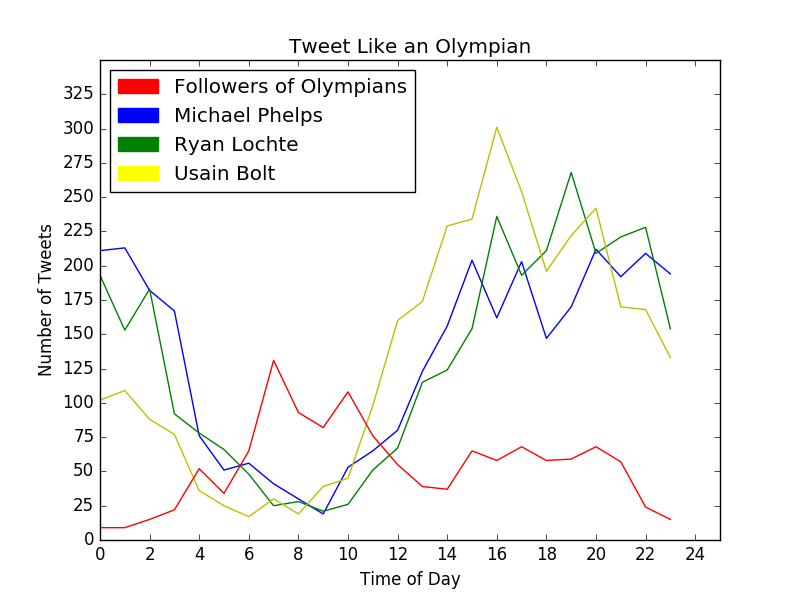
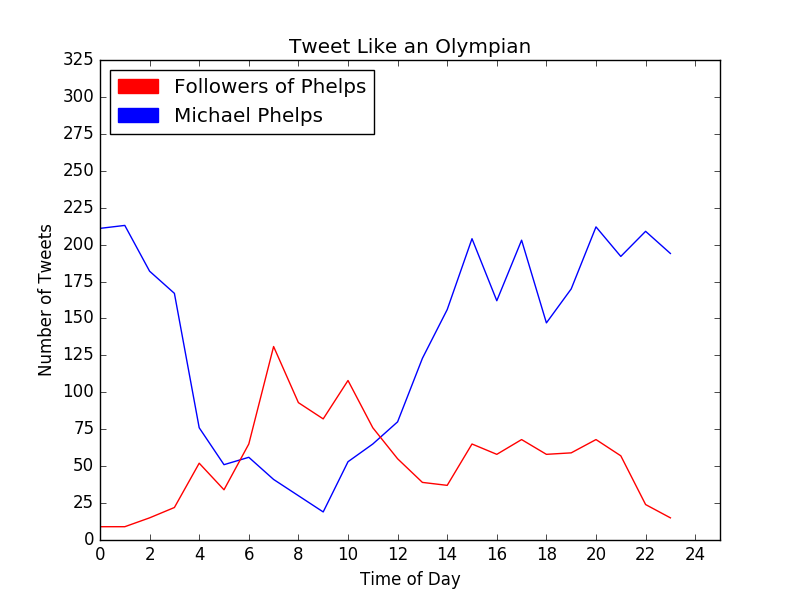
fixed README, eliminated bolt/locthe from plot

diff --git a/readingcsv.py b/readingcsv.py
@@ -51,17 +51,15 @@ bolt = getFreq('usainbolt_tweets.csv')
 random_ppl = getFreq('random_tweets.csv')
 print(random_ppl)
 
-mlt.plot(xaxis, phelps, 'b-', xaxis,lochte, 'g-', xaxis, bolt, 'y-', xaxis, random_ppl, 'r-')
+mlt.plot(xaxis, phelps, 'b-', xaxis, random_ppl, 'r-')
 mlt.xticks(np.arange(0, 25, 2.0))
 mlt.yticks(np.arange(0, 350, 25.0))
 mlt.xlabel("Time of Day")
 mlt.ylabel("Number of Tweets")
 mlt.title("Tweet Like an Olympian")
 
-red_patch = mpatches.Patch(color='red', label='Followers of Olympians')
+red_patch = mpatches.Patch(color='red', label='Followers of Phelps')
 blue_patch = mpatches.Patch(color='blue', label='Michael Phelps')
-green_patch = mpatches.Patch(color='green', label='Ryan Lochte')
-yellow_patch = mpatches.Patch(color='yellow', label='Usain Bolt')
-mlt.legend(handles=[red_patch, blue_patch, green_patch, yellow_patch], loc=2)
+mlt.legend(handles=[red_patch, blue_patch], loc=2)
 
 mlt.show()

diff --git a/README.md b/README.md
@@ -1,12 +1,11 @@
 # TwitterOlympics
 
-I wanted to see if there was a difference in the time that Olympic atheletes tweet on twitter vs when people who follow 
-them on Twitter usually Tweet.
+I wanted to see if there was a difference between the time that Olympic athletes tweet on Twitter vs when people who follow
+them on Twitter usually tweet.
 
-I selected 3 Olympians, Michael Phelps, Ryan Lochte, and Usain Bolt. I grapped a sample of Twitter handles from people 
-who followed Michael Phelps. 
+I chose Michael Phelps as the athlete for this comparison. I then used a Python script to select a sample of Twitter handles from people
+who followed Michael Phelps.
 
-I used the hour mark from their Twitter timestamps to determine what time they were tweeting at. I discarded the minutes and 
-marked the frequency of occurence from 0-23
+I graphed Phelps' tweet times and compared this to the tweet times of his followers. In order to do this, I used the hour mark from their Twitter timestamps to determine what time they were tweeting at. I discarded the minutes and marked the frequency of occurrence from 0-23 hours.
 
 ![Here is plot that I generated in python to show my findings](https://github.com/lwiskowski/TwitterOlympics/blob/master/TwitterOlympics.png "Olympics")
